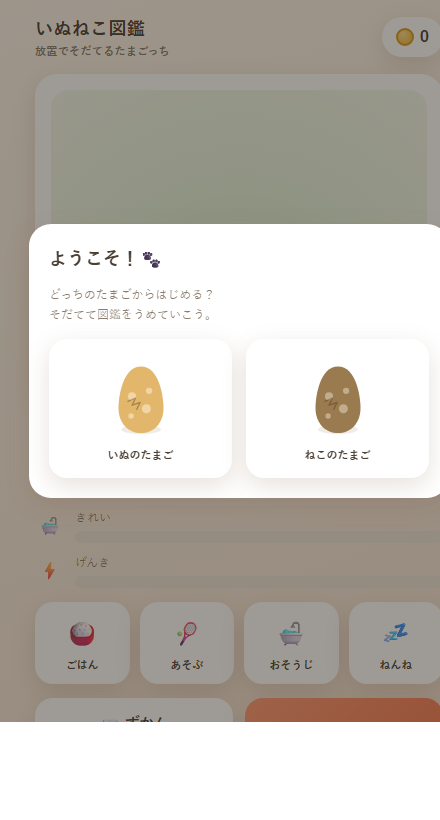
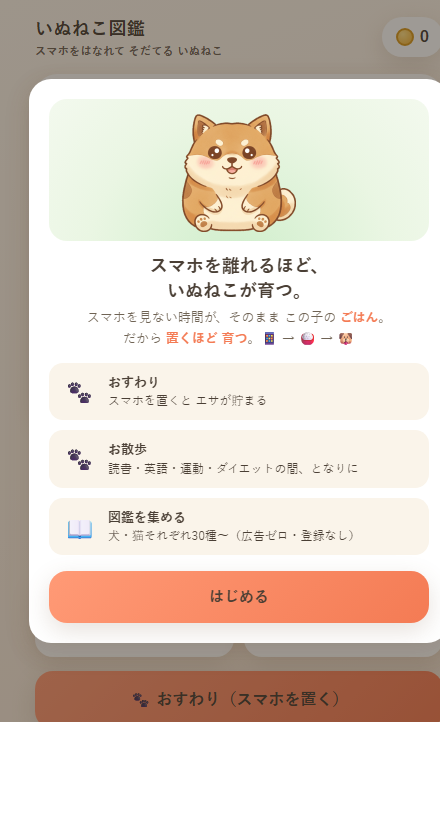
fix(portfolio): いぬねこ図鑑を最新仕様に修正（たまご→赤ちゃんお迎え・スマホ断ち育成・Capacitor対応・実スクショ更新）

diff --git a/src/app/projects/dog-cat/page.tsx b/src/app/projects/dog-cat/page.tsx
@@ -4,49 +4,48 @@ import { Button } from "@/components/ui/Button";
 import { motion } from "framer-motion";
 import {
   ArrowLeft,
-  Clock,
-  Gamepad2,
+  BookOpen,
   Github,
   PawPrint,
+  PhoneOff,
   Smartphone,
   Sparkles,
-  Trophy,
 } from "lucide-react";
 import Link from "next/link";
 
 const features = [
   {
-    icon: Clock,
-    title: "オフライン進行＋放置報酬",
+    icon: PhoneOff,
+    title: "スマホを置くほど育つ",
     description:
-      "アプリを閉じている間も時間が進行。戻ると空腹・成長・コインの変化が待っている放置ゲームの肝を実装。",
+      "スマホを見ない時間が、そのままこの子の「ごはん」になる。デジタルデトックスをそのまま育成のごほうびに変える独自ルール。",
   },
   {
     icon: PawPrint,
-    title: "4ステータスの世話",
+    title: "赤ちゃんをお迎え → 巣立ち",
     description:
-      "「ごはん・あそぶ・おそうじ・ねんね」で時間減衰するステータスをケア。ながら世話で育てる。",
+      "ねんね中の赤ちゃんをお迎えし、おくるみ→赤ちゃん→子ども→成体へ。育てたら巣立たせ、また新しい子を迎える。",
   },
   {
-    icon: Trophy,
-    title: "成長段階 ＆ 図鑑コレクション",
+    icon: BookOpen,
+    title: "図鑑コレクション",
     description:
-      "たまご→成長段階を経て育成。犬・猫を集めて図鑑（ずかん）を埋めていく収集要素。",
+      "犬・猫それぞれ30種〜。性格の違う子を育てて巣立たせ、図鑑に殿堂入り。広告ゼロ・登録なしで気軽に。",
   },
   {
     icon: Smartphone,
-    title: "PWA（インストール不要）",
+    title: "iOS / Android ネイティブ",
     description:
-      "ブラウザでそのまま遊べてオフラインでも動作。審査なしで即公開・即検証できる構成。",
+      "Capacitorで両OSのネイティブアプリ化。ローカル通知と触覚フィードバックで、ふと戻りたくなる体験に。",
   },
 ];
 
 const techStack = [
   { name: "JavaScript", category: "Language" },
-  { name: "PWA", category: "Platform" },
-  { name: "HTML5 / CSS3", category: "Markup" },
-  { name: "Service Worker", category: "Offline" },
-  { name: "LocalStorage", category: "State" },
+  { name: "Capacitor", category: "iOS / Android" },
+  { name: "Local Notifications", category: "Native" },
+  { name: "HTML5 / CSS3", category: "UI" },
+  { name: "PWA", category: "Web" },
 ];
 
 export default function DogCatProjectPage() {
@@ -83,24 +82,26 @@ export default function DogCatProjectPage() {
             >
               {/* Badge */}
               <div className="inline-flex items-center gap-2 px-3 py-1 bg-fresh-100 rounded-full text-fresh-700 text-sm font-medium mb-4">
-                <Gamepad2 className="w-4 h-4" />
-                Idle Game × PWA
+                <Sparkles className="w-4 h-4" />
+                Digital Wellbeing × 育成
               </div>
 
               <h1 className="text-4xl md:text-5xl font-bold text-navy-900 mb-4">
                 いぬねこ図鑑
                 <span className="block text-lg md:text-xl font-normal text-navy-600 mt-2">
-                  Inuneko Zukan — 放置型ペット育成
+                  Inuneko Dex — スマホを置くほど育つ
                 </span>
               </h1>
 
               <p className="text-xl text-fresh-600 font-medium mb-6">
-                スマホで「ながら世話」する放置型ペット育成アプリ
+                スマホを離れるほど、いぬねこが育つ。
               </p>
 
               <p className="text-navy-600 leading-relaxed mb-8">
-                閉じている間も時間が進み、戻ると「お腹が空いた・成長した・コインが貯まった」が待っている。
-                犬・猫を選んで育て、図鑑を埋めていくPWA。アイデアを仕様に落とし、AIと協働して0→1で形にしました。
+                スマホを見ない時間が、そのままこの子の「ごはん」になる育成アプリ。
+                ねんね中の赤ちゃんをお迎えし、おくるみ→赤ちゃん→子ども→成体へ。
+                巣立たせて図鑑（犬・猫 各30種〜）を集める。広告ゼロ・登録なし。
+                アイデアを仕様に落とし、AIと協働して0→1で形にしました。
               </p>
 
               {/* CTA Buttons */}
@@ -142,11 +143,11 @@ export default function DogCatProjectPage() {
               >
                 <div className="flex items-center gap-3">
                   <div className="w-10 h-10 rounded-lg bg-fresh-100 flex items-center justify-center">
-                    <Clock className="w-5 h-5 text-fresh-600" />
+                    <PhoneOff className="w-5 h-5 text-fresh-600" />
                   </div>
                   <div>
-                    <div className="text-lg font-bold text-navy-900">オフライン進行</div>
-                    <div className="text-xs text-navy-500">閉じても育つ</div>
+                    <div className="text-lg font-bold text-navy-900">置くほど育つ</div>
+                    <div className="text-xs text-navy-500">スマホ断ち × 育成</div>
                   </div>
                 </div>
               </motion.div>
@@ -171,19 +172,19 @@ export default function DogCatProjectPage() {
               <ul className="space-y-3 text-fresh-800">
                 <li className="flex items-start gap-3">
                   <span className="w-1.5 h-1.5 rounded-full bg-fresh-500 mt-2" />
-                  たまごを選んで、犬か猫を育てる
+                  スマホを置くと「エサ」が貯まり、いぬねこが育つ
                 </li>
                 <li className="flex items-start gap-3">
                   <span className="w-1.5 h-1.5 rounded-full bg-fresh-500 mt-2" />
-                  すきま時間に世話するだけのゆるい設計
+                  赤ちゃんをお迎えし、成体まで育てて巣立たせる
                 </li>
                 <li className="flex items-start gap-3">
                   <span className="w-1.5 h-1.5 rounded-full bg-fresh-500 mt-2" />
-                  放置中も成長し、戻ると変化が待っている
+                  読書・運動・勉強の"おとも"に。画面から離れる時間を楽しく
                 </li>
                 <li className="flex items-start gap-3">
                   <span className="w-1.5 h-1.5 rounded-full bg-fresh-500 mt-2" />
-                  集めて図鑑を埋めるコレクション性
+                  集めて図鑑を埋めるコレクション性（広告ゼロ・登録なし）
                 </li>
               </ul>
             </motion.div>
@@ -196,19 +197,19 @@ export default function DogCatProjectPage() {
               transition={{ duration: 0.5, delay: 0.1 }}
               className="p-8 rounded-2xl bg-navy-50 border border-navy-100"
             >
-              <h3 className="text-xl font-bold text-navy-900 mb-4">実装のこだわり</h3>
+              <h3 className="text-xl font-bold text-navy-900 mb-4">こだわり</h3>
               <ul className="space-y-3 text-navy-700">
                 <li className="flex items-start gap-3">
                   <span className="w-1.5 h-1.5 rounded-full bg-navy-400 mt-2" />
-                  放置ゲームの肝＝オフライン進行の時間計算を単体で設計
+                  「スマホを使わない時間」を報酬に変える独自ルール設計
                 </li>
                 <li className="flex items-start gap-3">
                   <span className="w-1.5 h-1.5 rounded-full bg-navy-400 mt-2" />
-                  端末時計の巻き戻りを検知し放置報酬の不正を抑止
+                  おくるみ→赤ちゃん→子ども→成体の成長と放置時間の計算
                 </li>
                 <li className="flex items-start gap-3">
                   <span className="w-1.5 h-1.5 rounded-full bg-navy-400 mt-2" />
-                  engine / art / ui / breeds に責務分割した構成
+                  Capacitorで iOS / Android ネイティブ化（通知・触覚）
                 </li>
                 <li className="flex items-start gap-3">
                   <span className="w-1.5 h-1.5 rounded-full bg-navy-400 mt-2" />
@@ -231,7 +232,7 @@ export default function DogCatProjectPage() {
           >
             <h2 className="text-3xl font-bold text-navy-900 mb-4">主な機能</h2>
             <p className="text-navy-600 max-w-2xl mx-auto">
-              「ながら世話」で続く、放置型育成の体験を支える機能
+              「スマホを置くほど育つ」体験を支える機能
             </p>
           </motion.div>
 

diff --git a/src/app/page.tsx b/src/app/page.tsx
@@ -22,10 +22,10 @@ const projects = [
     imageUrl: "/previews/ape.svg",
   },
   {
-    title: "いぬねこ図鑑 (Idle Pet Game)",
+    title: "いぬねこ図鑑 (スマホ断ち × 育成)",
     description:
-      "スマホで「ながら世話」する犬・猫の放置型育成アプリ。閉じている間も時間が進み、戻ると空腹・成長・コインが待っている。オフライン進行＋放置報酬・成長段階・図鑑コレクションを実装したPWA。",
-    tags: ["JavaScript", "PWA", "Game Dev", "Mobile"],
+      "「スマホを離れるほど、いぬねこが育つ」デジタルデトックス×ペット育成アプリ。スマホを見ない時間がエサになり、赤ちゃんをお迎えして成体まで育てて巣立たせ、犬・猫の図鑑（各30種〜）を集める。Capacitorで iOS/Android 対応。",
+    tags: ["JavaScript", "Capacitor", "iOS / Android", "Digital Wellbeing"],
     href: "/projects/dog-cat",
     imageUrl: "/previews/dog-cat.png",
   },
